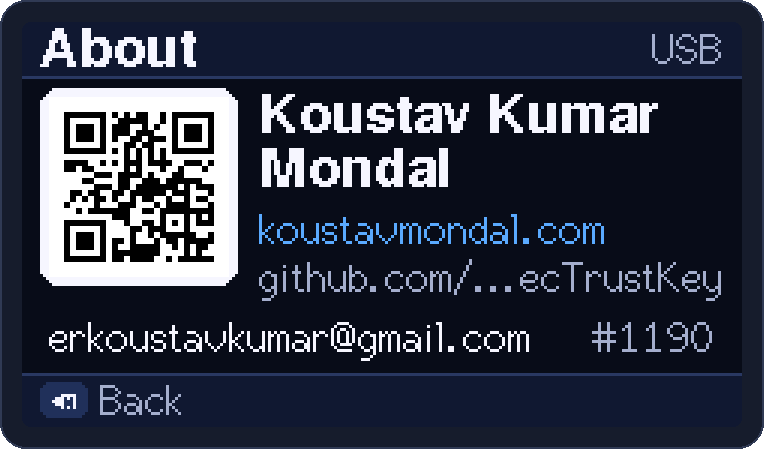
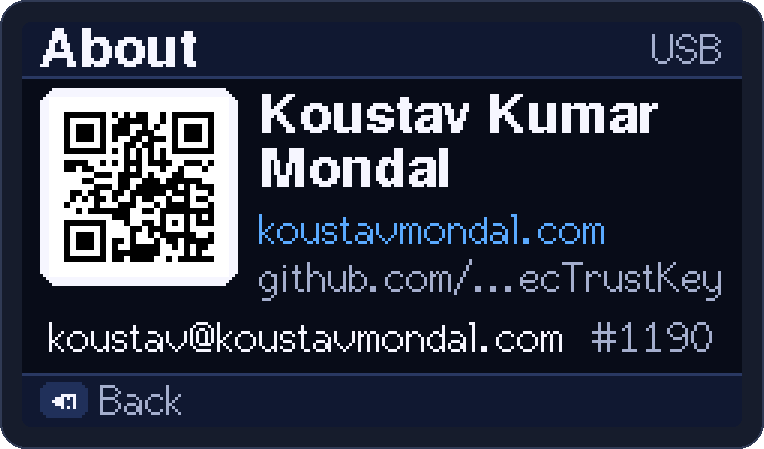
Show koustav@koustavmondal.com on the About page

Changed region(s): [[0.0602, 0.7171, 0.7526, 0.8107]]

diff --git a/board/about.h b/board/about.h
@@ -7,7 +7,7 @@ namespace cardputer {
 
 inline constexpr const char* kAboutName = "Koustav Kumar Mondal";
 inline constexpr const char* kAboutWebsite = "koustavmondal.com";
-inline constexpr const char* kAboutEmail = "erkoustavkumar@gmail.com";
+inline constexpr const char* kAboutEmail = "koustav@koustavmondal.com";
 // The final GitHub repository, e.g. "github.com/<user>/SecTrustKey". Empty shows "coming soon".
 inline constexpr const char* kAboutRepo = "github.com/TakMashhido/SecTrustKey";
 // What the QR code on the About page opens.
